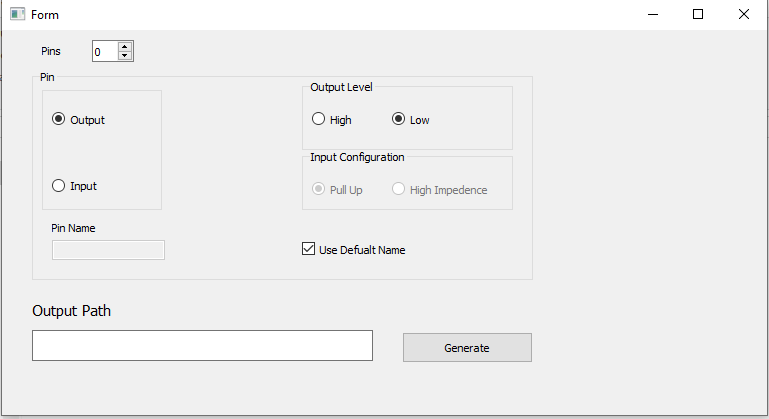
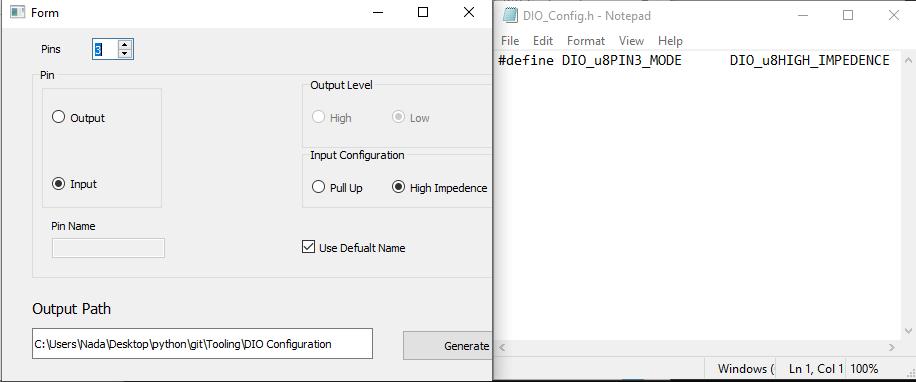
Version 1 add Macros folder

diff --git a/Define Macros/macros.py b/Define Macros/macros.py
@@ -1,0 +1,141 @@
+# -*- coding: utf-8 -*-
+
+################################################################################
+## Form generated from reading UI file 'macros.ui'
+##
+## Created by: Qt User Interface Compiler version 5.14.0
+##
+## WARNING! All changes made in this file will be lost when recompiling UI file!
+################################################################################
+import sys
+import os.path
+
+
+from PySide2.QtCore import (QCoreApplication, QMetaObject, QObject, QPoint,
+    QRect, QSize, QUrl, Qt)
+from PySide2.QtGui import (QBrush, QColor, QConicalGradient, QFont,
+    QFontDatabase, QIcon, QLinearGradient, QPalette, QPainter, QPixmap,
+    QRadialGradient)
+from PySide2.QtWidgets import *
+
+class Ui_Form(object):
+    def setupUi(self, Form):
+        if Form.objectName():
+            Form.setObjectName(u"Form")
+        Form.resize(765, 385)
+        self.lineEdit_OutputPath = QLineEdit(Form)
+        self.lineEdit_OutputPath.setObjectName(u"lineEdit_OutputPath")
+        self.lineEdit_OutputPath.setGeometry(QRect(30, 300, 341, 31))
+        self.GenerateButton = QPushButton(Form)
+        self.GenerateButton.setObjectName(u"GenerateButton")
+        self.GenerateButton.setGeometry(QRect(400, 302, 131, 31))
+        self.label_2 = QLabel(Form)
+        self.label_2.setObjectName(u"label_2")
+        self.label_2.setGeometry(QRect(30, 270, 111, 20))
+        font = QFont()
+        font.setPointSize(11)
+        self.label_2.setFont(font)
+        self.Start_Bit = QSpinBox(Form)
+        self.Start_Bit.setObjectName(u"Start_Bit")
+        self.Start_Bit.setGeometry(QRect(90, 220, 42, 22))
+        self.Start_Bit.setMaximum(32)
+        self.label_3 = QLabel(Form)
+        self.label_3.setObjectName(u"label_3")
+        self.label_3.setGeometry(QRect(30, 220, 51, 20))
+        self.Register_Name = QLineEdit(Form)
+        self.Register_Name.setObjectName(u"Register_Name")
+        self.Register_Name.setGeometry(QRect(90, 70, 113, 20))
+        self.label = QLabel(Form)
+        self.label.setObjectName(u"label")
+        self.label.setGeometry(QRect(30, 70, 47, 14))
+        self.Bits_Name = QLineEdit(Form)
+        self.Bits_Name.setObjectName(u"Bits_Name")
+        self.Bits_Name.setGeometry(QRect(90, 120, 113, 20))
+        self.label_4 = QLabel(Form)
+        self.label_4.setObjectName(u"label_4")
+        self.label_4.setGeometry(QRect(30, 120, 47, 14))
+        self.label_5 = QLabel(Form)
+        self.label_5.setObjectName(u"label_5")
+        self.label_5.setGeometry(QRect(210, 220, 51, 20))
+        self.End_Bit = QSpinBox(Form)
+        self.End_Bit.setObjectName(u"End_Bit")
+        self.End_Bit.setGeometry(QRect(260, 220, 42, 22))
+        self.End_Bit.setMaximum(32)
+        self.label_6 = QLabel(Form)
+        self.label_6.setObjectName(u"label_6")
+        self.label_6.setGeometry(QRect(30, 170, 47, 14))
+        self.Bits_Value = QLineEdit(Form)
+        self.Bits_Value.setObjectName(u"Bits_Value")
+        self.Bits_Value.setGeometry(QRect(90, 170, 113, 20))
+        self.label_7 = QLabel(Form)
+        self.label_7.setObjectName(u"label_7")
+        self.label_7.setGeometry(QRect(30, 20, 47, 14))
+        self.Driver_Name= QLineEdit(Form)
+        self.Driver_Name.setObjectName(u"Driver_Name")
+        self.Driver_Name.setGeometry(QRect(90, 20, 113, 20))
+        self.checkBox = QCheckBox(Form)
+        self.checkBox.setObjectName(u"checkBox")
+        self.checkBox.setGeometry(QRect(320, 170, 141, 18))
+        
+        self.retranslateUi(Form)
+        self.GenerateButton.clicked.connect(self.GenerateFunction) 
+
+        QMetaObject.connectSlotsByName(Form)
+    # setupUi
+
+#define RCC_CR_HSIRDY     (u32)0x00000002
+
+    def GenerateFunction(self):
+
+      #check if there's no output path then the output path will be where's the python file their
+      if self.lineEdit_OutputPath.text() == "":
+        Driver_File='Driver.c'
+      else:
+        Driver_File='/Driver.c'
+
+     
+      # check if the files is exist or not 
+      if os.path.isfile(self.lineEdit_OutputPath.text() + Driver_File):  
+        # append to the files
+        Driver_Handler = open(self.lineEdit_OutputPath.text() + Driver_File,'a')  
+        Driver_Handler.write("\n")
+      else:
+        # create the files and write to it
+        Driver_Handler = open(self.lineEdit_OutputPath.text() + Driver_File,'w')
+      
+      value = (int(self.Bits_Value.text())<<int(self.Start_Bit.text()))
+      binary_value='{:032b}'.format(value) 
+        
+      if self.checkBox.isChecked():
+        binary_value = binary_value.replace('0', 'x')
+        binary_value = binary_value.replace('1', '0')
+        binary_value = binary_value.replace('x', '1')
+     
+      Hex_value=hex(int(str(binary_value), 2))   
+     
+     
+      
+      Driver_Handler.write("#define " + self.Driver_Name.text() + "_" + self.Register_Name.text() + "_" + self.Bits_Name.text() + "      (u32)" + Hex_value)
+      Driver_Handler.close()
+ 
+
+    def retranslateUi(self, Form):
+        Form.setWindowTitle(QCoreApplication.translate("Form", u"Form", None))
+        self.GenerateButton.setText(QCoreApplication.translate("Form", u"Generate", None))
+        self.label_2.setText(QCoreApplication.translate("Form", u"Output Path", None))
+        self.label_3.setText(QCoreApplication.translate("Form", u"Start Bit", None))
+        self.label.setText(QCoreApplication.translate("Form", u"Register", None))
+        self.label_4.setText(QCoreApplication.translate("Form", u"Bits", None))
+        self.label_5.setText(QCoreApplication.translate("Form", u"End Bit", None))
+        self.label_6.setText(QCoreApplication.translate("Form", u"Value", None))
+        self.label_7.setText(QCoreApplication.translate("Form", u"Driver", None))
+        self.checkBox.setText(QCoreApplication.translate("Form", u"Mask", None))
+
+    # retranslateUi
+
+App = QApplication(sys.argv)  #create application and return handler on it 
+Widget = QWidget()
+Form = Ui_Form()
+Form.setupUi(Widget) # setup object inside widget
+Widget.show()
+sys.exit(App.exec_()) # run application

diff --git a/DIO Configuration/DIO_Config.h b/DIO Configuration/DIO_Config.h
@@ -1,0 +1,1 @@
+#define DIO_u8PIN3_MODE      DIO_u8HIGH_IMPEDENCE
